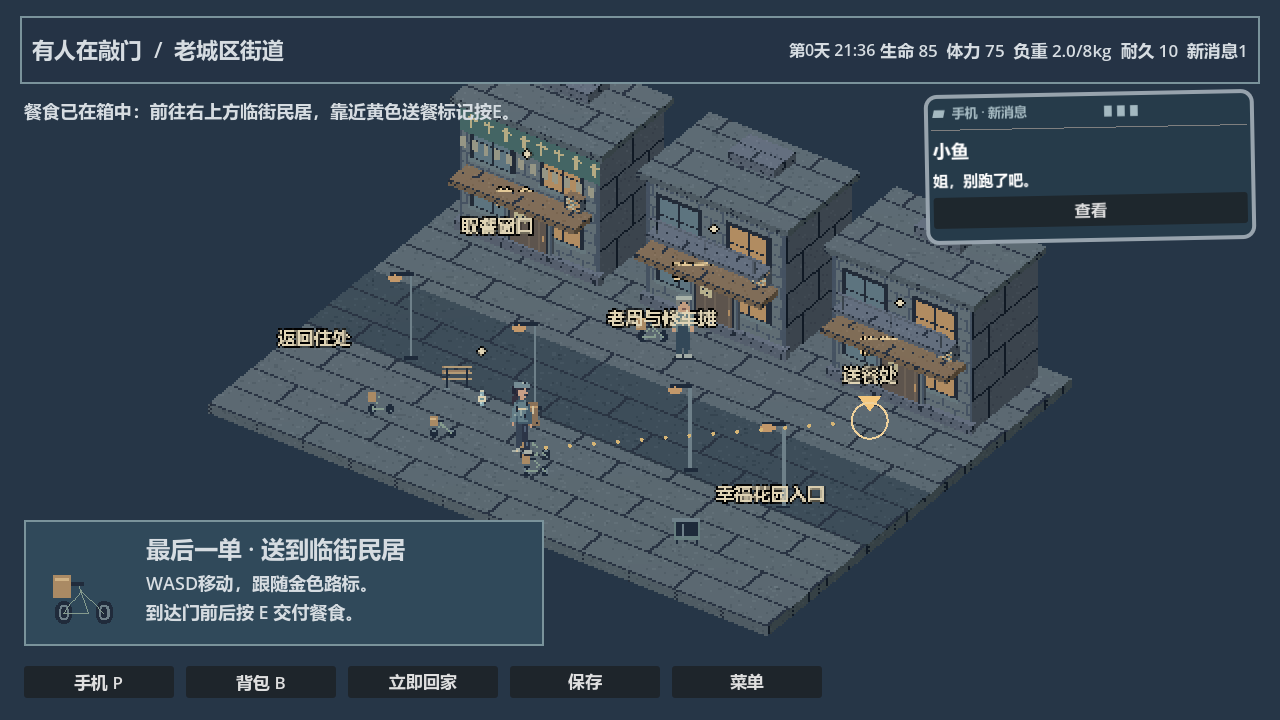
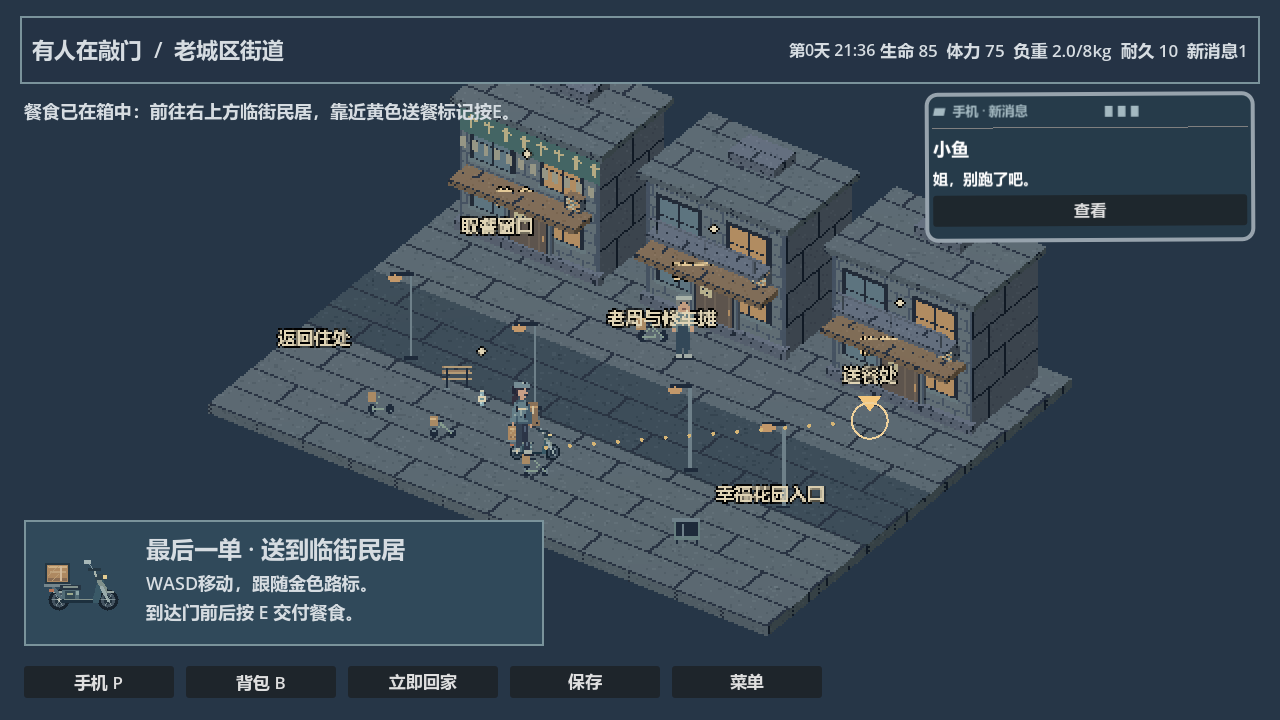
fix: finish opening chat and distinguish device notifications with morning transition

diff --git a/DEV_LOG.md b/DEV_LOG.md
@@ -288,3 +288,12 @@ before.zip保存改前版本；verified.zip和verified_manifest.json保存当前
 - 五张真实PNG（artifacts/digital_systems/13_delivery_guidance至17_elevator_hand）已输入模型视觉上下文检查；中文/任务卡/手机外壳/电脑通知层级/特写位置可见，最终素材更新后重新截图查看。既有回归截图也由脚本更新。
 - F5新游戏可体验送餐消息→交付→断电→找老周；WASD跟随金色指引，接近按E。电脑打开多个窗口仍可接收通知。夹手近景在第一章电梯对应对白自动出现。
 - 限制：自动化步行测试不等于陌生玩家盲玩验收；macOS、真人试玩改善程度和主观音效未验证。人物车辆没有完整骑行动画，夹手是简化原创像素近景，不宣称最终美术。无新在线服务、插件或第三方素材。
+
+## 2026-11-05 开场续聊、次日过场与设备通知
+- data/messaging.json：开场回复后增加小鱼两句关心与女主报平安回应，沿用逐条队列，避免突然结束。两种预设回复共用自然收尾。
+- scripts/ch01_director.gd、scripts/ch01_play.gd：夜间午餐邀约结束后，进入约4秒深色到晨光淡入淡出过场，提示第二天清晨出门取餐；结束恢复移动，待播放标记进入存档状态。
+- ui/notification_toast.gd、scripts/desktop_night.gd：手机打开时抑制弹窗，未展示通知保留，关闭后继续；电脑采用直角桌面通知，无手机状态栏或震动，点击进入对应会话。
+- 新增scripts/ch01_transition_test.gd；实际Godot Windows运行专项11 PASS、第一章主线228 PASS，最终日志无错误；共239断言含截图/重复分支，不是239功能。截图18_phone_followup、19_morning_transition、20_desktop_notification已实际作为图像检查；发现并修复过场通知遮挡后重新截图。
+- 更新既有artifacts/ch01_qa/01_street.png、12_desktop_chat.png、13_desktop_news.png为回归运行输出；新增artifacts/digital_systems/ch01_transition_test.log及上述3张PNG。无删除。
+- F5新游戏：回复小鱼后等待连续消息；手机关闭后恢复通知；完成首夜聊天后查看清晨过场；电脑通知“查看”打开聊天。
+- 限制：过场为文字/色调渐变，不是完整日出场景动画；macOS及真人盲玩未验收。旧message_floor_fix_test中的“手机打开仍显示横幅”是已被本次需求取代的历史断言，本次以transition专项为准。

diff --git a/CHANGELOG.md b/CHANGELOG.md
@@ -211,3 +211,12 @@
 - 五张真实PNG（artifacts/digital_systems/13_delivery_guidance至17_elevator_hand）已输入模型视觉上下文检查；中文/任务卡/手机外壳/电脑通知层级/特写位置可见，最终素材更新后重新截图查看。既有回归截图也由脚本更新。
 - F5新游戏可体验送餐消息→交付→断电→找老周；WASD跟随金色指引，接近按E。电脑打开多个窗口仍可接收通知。夹手近景在第一章电梯对应对白自动出现。
 - 限制：自动化步行测试不等于陌生玩家盲玩验收；macOS、真人试玩改善程度和主观音效未验证。人物车辆没有完整骑行动画，夹手是简化原创像素近景，不宣称最终美术。无新在线服务、插件或第三方素材。
+
+## 2026-11-05 开场续聊、次日过场与设备通知
+- data/messaging.json：开场回复后增加小鱼两句关心与女主报平安回应，沿用逐条队列，避免突然结束。两种预设回复共用自然收尾。
+- scripts/ch01_director.gd、scripts/ch01_play.gd：夜间午餐邀约结束后，进入约4秒深色到晨光淡入淡出过场，提示第二天清晨出门取餐；结束恢复移动，待播放标记进入存档状态。
+- ui/notification_toast.gd、scripts/desktop_night.gd：手机打开时抑制弹窗，未展示通知保留，关闭后继续；电脑采用直角桌面通知，无手机状态栏或震动，点击进入对应会话。
+- 新增scripts/ch01_transition_test.gd；实际Godot Windows运行专项11 PASS、第一章主线228 PASS，最终日志无错误；共239断言含截图/重复分支，不是239功能。截图18_phone_followup、19_morning_transition、20_desktop_notification已实际作为图像检查；发现并修复过场通知遮挡后重新截图。
+- 更新既有artifacts/ch01_qa/01_street.png、12_desktop_chat.png、13_desktop_news.png为回归运行输出；新增artifacts/digital_systems/ch01_transition_test.log及上述3张PNG。无删除。
+- F5新游戏：回复小鱼后等待连续消息；手机关闭后恢复通知；完成首夜聊天后查看清晨过场；电脑通知“查看”打开聊天。
+- 限制：过场为文字/色调渐变，不是完整日出场景动画；macOS及真人盲玩未验收。旧message_floor_fix_test中的“手机打开仍显示横幅”是已被本次需求取代的历史断言，本次以transition专项为准。

diff --git a/docs/DEVELOPMENT_LOG.md b/docs/DEVELOPMENT_LOG.md
@@ -70,3 +70,12 @@
 - 五张真实PNG（artifacts/digital_systems/13_delivery_guidance至17_elevator_hand）已输入模型视觉上下文检查；中文/任务卡/手机外壳/电脑通知层级/特写位置可见，最终素材更新后重新截图查看。既有回归截图也由脚本更新。
 - F5新游戏可体验送餐消息→交付→断电→找老周；WASD跟随金色指引，接近按E。电脑打开多个窗口仍可接收通知。夹手近景在第一章电梯对应对白自动出现。
 - 限制：自动化步行测试不等于陌生玩家盲玩验收；macOS、真人试玩改善程度和主观音效未验证。人物车辆没有完整骑行动画，夹手是简化原创像素近景，不宣称最终美术。无新在线服务、插件或第三方素材。
+
+## 2026-11-05 开场续聊、次日过场与设备通知
+- data/messaging.json：开场回复后增加小鱼两句关心与女主报平安回应，沿用逐条队列，避免突然结束。两种预设回复共用自然收尾。
+- scripts/ch01_director.gd、scripts/ch01_play.gd：夜间午餐邀约结束后，进入约4秒深色到晨光淡入淡出过场，提示第二天清晨出门取餐；结束恢复移动，待播放标记进入存档状态。
+- ui/notification_toast.gd、scripts/desktop_night.gd：手机打开时抑制弹窗，未展示通知保留，关闭后继续；电脑采用直角桌面通知，无手机状态栏或震动，点击进入对应会话。
+- 新增scripts/ch01_transition_test.gd；实际Godot Windows运行专项11 PASS、第一章主线228 PASS，最终日志无错误；共239断言含截图/重复分支，不是239功能。截图18_phone_followup、19_morning_transition、20_desktop_notification已实际作为图像检查；发现并修复过场通知遮挡后重新截图。
+- 更新既有artifacts/ch01_qa/01_street.png、12_desktop_chat.png、13_desktop_news.png为回归运行输出；新增artifacts/digital_systems/ch01_transition_test.log及上述3张PNG。无删除。
+- F5新游戏：回复小鱼后等待连续消息；手机关闭后恢复通知；完成首夜聊天后查看清晨过场；电脑通知“查看”打开聊天。
+- 限制：过场为文字/色调渐变，不是完整日出场景动画；macOS及真人盲玩未验收。旧message_floor_fix_test中的“手机打开仍显示横幅”是已被本次需求取代的历史断言，本次以transition专项为准。

diff --git a/docs/CH01_BUGFIX_REPORT.md b/docs/CH01_BUGFIX_REPORT.md
@@ -122,3 +122,12 @@
 - `ui/ch01_guidance.gd`
 - `ui/ch01_guidance.gd.uid`
 - `ui/notification_toast.gd`
+
+## 2026-11-05 开场续聊、次日过场与设备通知
+- data/messaging.json：开场回复后增加小鱼两句关心与女主报平安回应，沿用逐条队列，避免突然结束。两种预设回复共用自然收尾。
+- scripts/ch01_director.gd、scripts/ch01_play.gd：夜间午餐邀约结束后，进入约4秒深色到晨光淡入淡出过场，提示第二天清晨出门取餐；结束恢复移动，待播放标记进入存档状态。
+- ui/notification_toast.gd、scripts/desktop_night.gd：手机打开时抑制弹窗，未展示通知保留，关闭后继续；电脑采用直角桌面通知，无手机状态栏或震动，点击进入对应会话。
+- 新增scripts/ch01_transition_test.gd；实际Godot Windows运行专项11 PASS、第一章主线228 PASS，最终日志无错误；共239断言含截图/重复分支，不是239功能。截图18_phone_followup、19_morning_transition、20_desktop_notification已实际作为图像检查；发现并修复过场通知遮挡后重新截图。
+- 更新既有artifacts/ch01_qa/01_street.png、12_desktop_chat.png、13_desktop_news.png为回归运行输出；新增artifacts/digital_systems/ch01_transition_test.log及上述3张PNG。无删除。
+- F5新游戏：回复小鱼后等待连续消息；手机关闭后恢复通知；完成首夜聊天后查看清晨过场；电脑通知“查看”打开聊天。
+- 限制：过场为文字/色调渐变，不是完整日出场景动画；macOS及真人盲玩未验收。旧message_floor_fix_test中的“手机打开仍显示横幅”是已被本次需求取代的历史断言，本次以transition专项为准。
